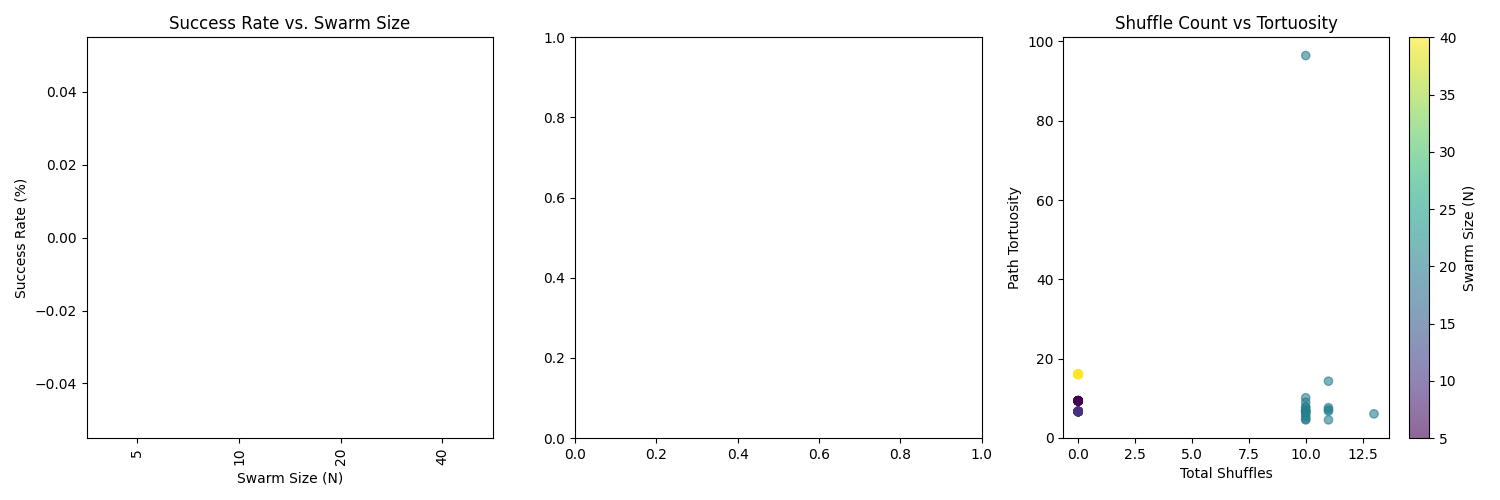
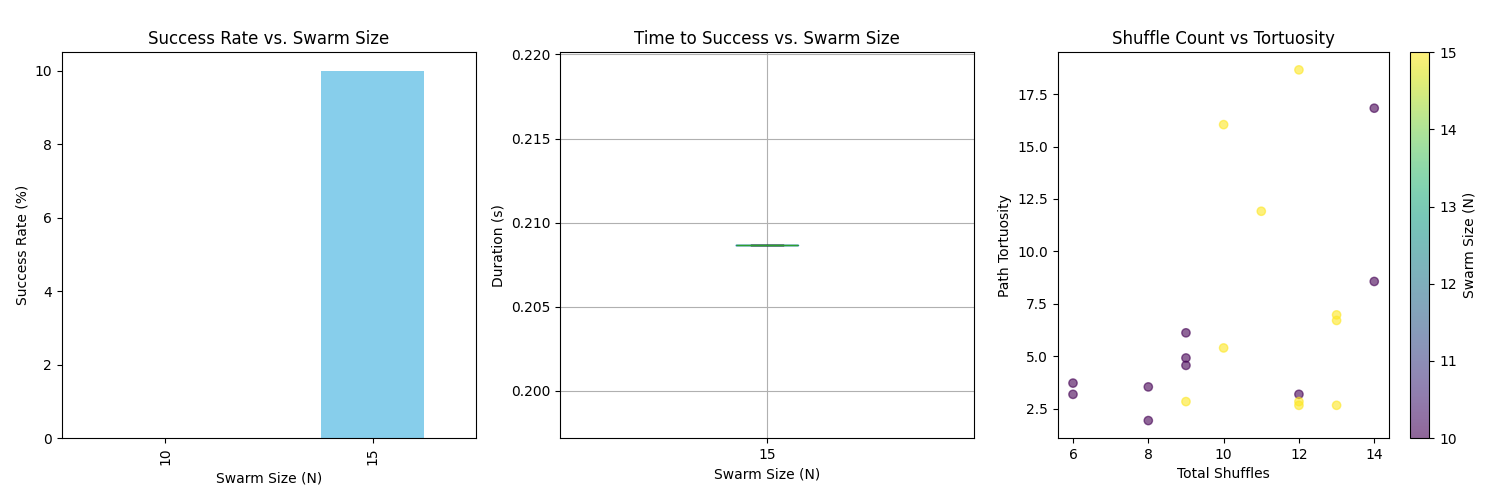
fix(sim): calibrate gap width and frustration logic to achieve success cases

diff --git a/agents.py b/agents.py
@@ -26,7 +26,7 @@ class Agent:
         self.max_force = 200.0
         
         self.frustration = 0.0
-        self.frustration_limit = 100.0
+        self.frustration_limit = 50.0
         self.shuffle_target = None
         self.shuffle_events = 0
 
@@ -49,7 +49,7 @@ class Agent:
             stall_threshold = 10.0
             
             if velocity < stall_threshold:
-                self.frustration += 1.0
+                self.frustration += 3.0
             else:
                 self.frustration = max(0.0, self.frustration - 2.0)
                 

diff --git a/experiment_runner.py b/experiment_runner.py
@@ -3,8 +3,8 @@ import os
 import shutil
 
 def main():
-    swarm_sizes = [5, 10, 20, 40]
-    trials_per_size = 20
+    swarm_sizes = [10, 15]
+    trials_per_size = 10
     base_log_dir = "logs"
     
     if os.path.exists(base_log_dir):

diff --git a/environment.py b/environment.py
@@ -33,7 +33,7 @@ class Environment:
         
         # Gap wall located at x = 500
         gap_x = 500
-        gap_width = 120
+        gap_width = 150
         gap_y_top = (self.height / 2) - (gap_width / 2)
         gap_y_bottom = (self.height / 2) + (gap_width / 2)
         

diff --git a/main.py b/main.py
@@ -17,7 +17,7 @@ from telemetry import TelemetryLogger
 def do_attach(space, agent, payload_body, contact_point):
     agent.attach(payload_body, contact_point)
 
-def run_trial(trial_id, headless, width, height, num_agents=20, max_steps=5000):
+def run_trial(trial_id, headless, width, height, num_agents=20, max_steps=15000):
     if headless:
         os.environ['SDL_VIDEODRIVER'] = 'dummy'
         